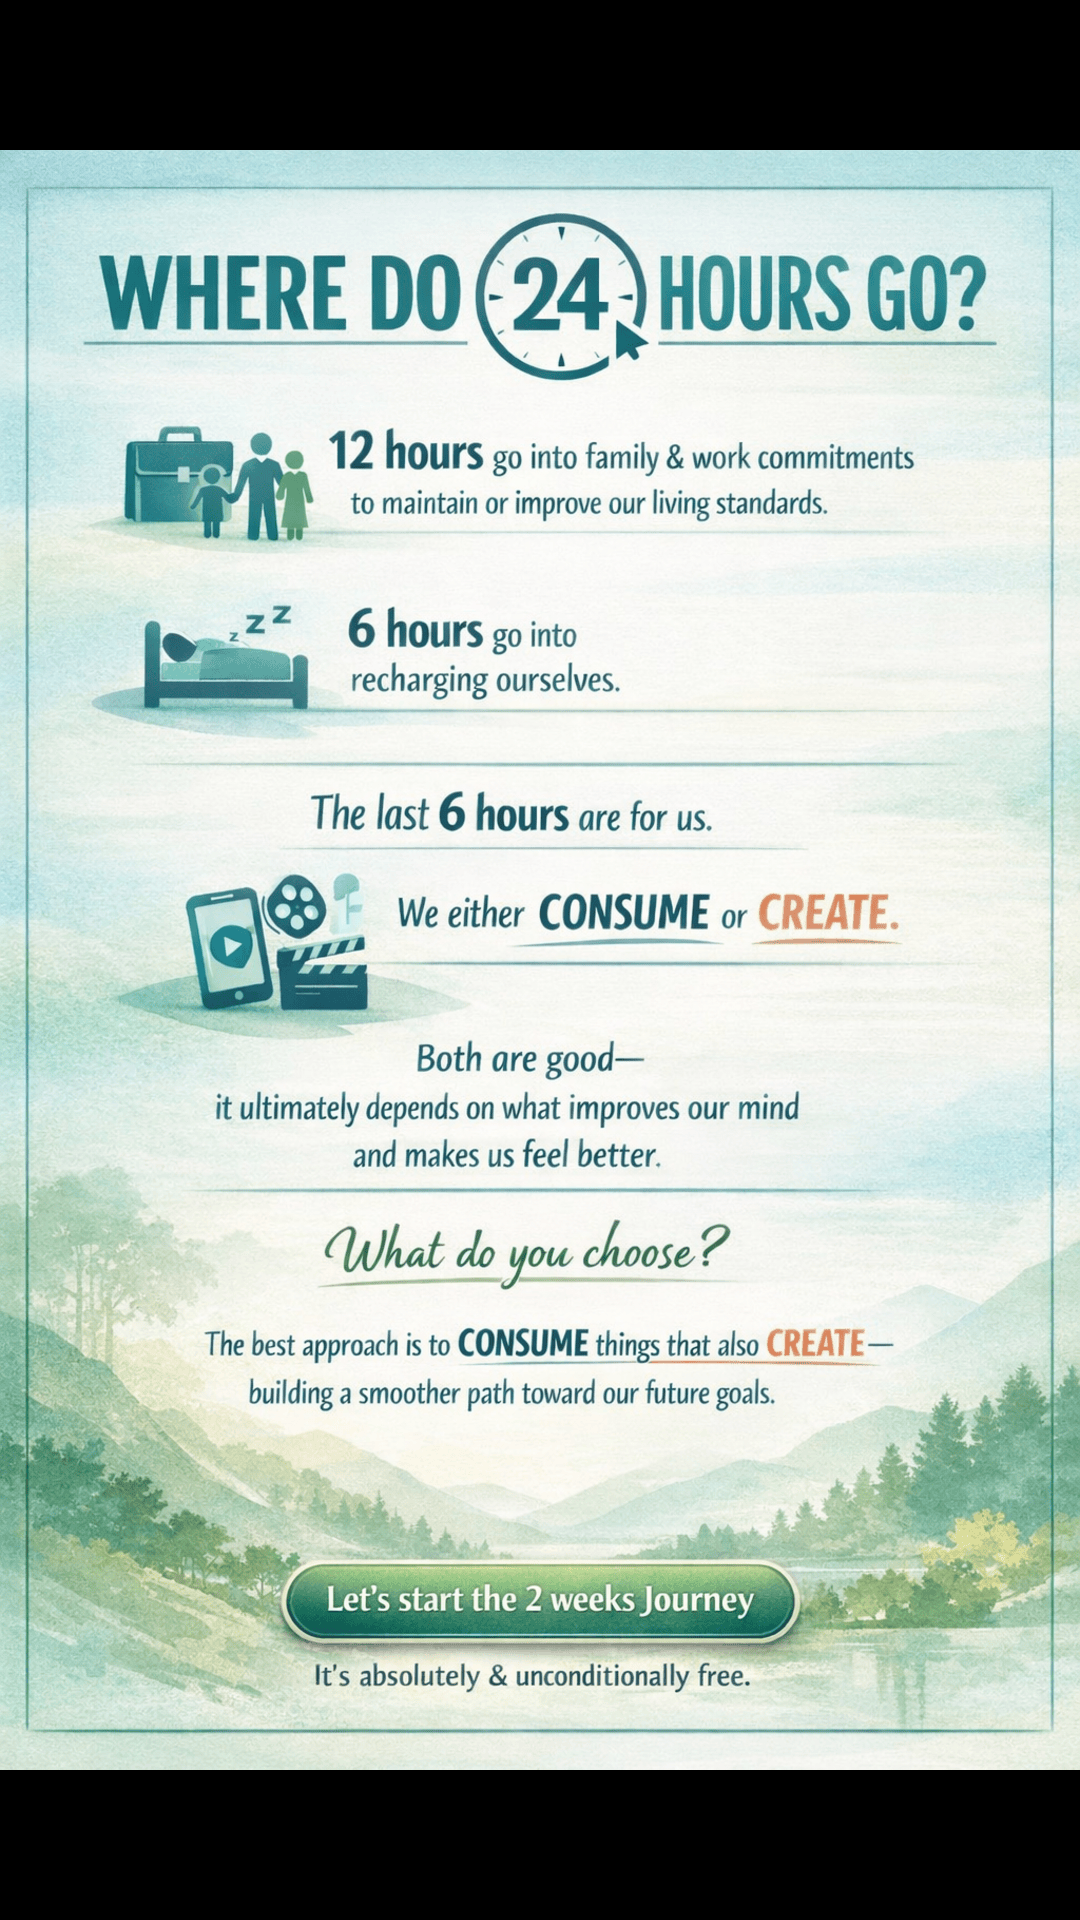
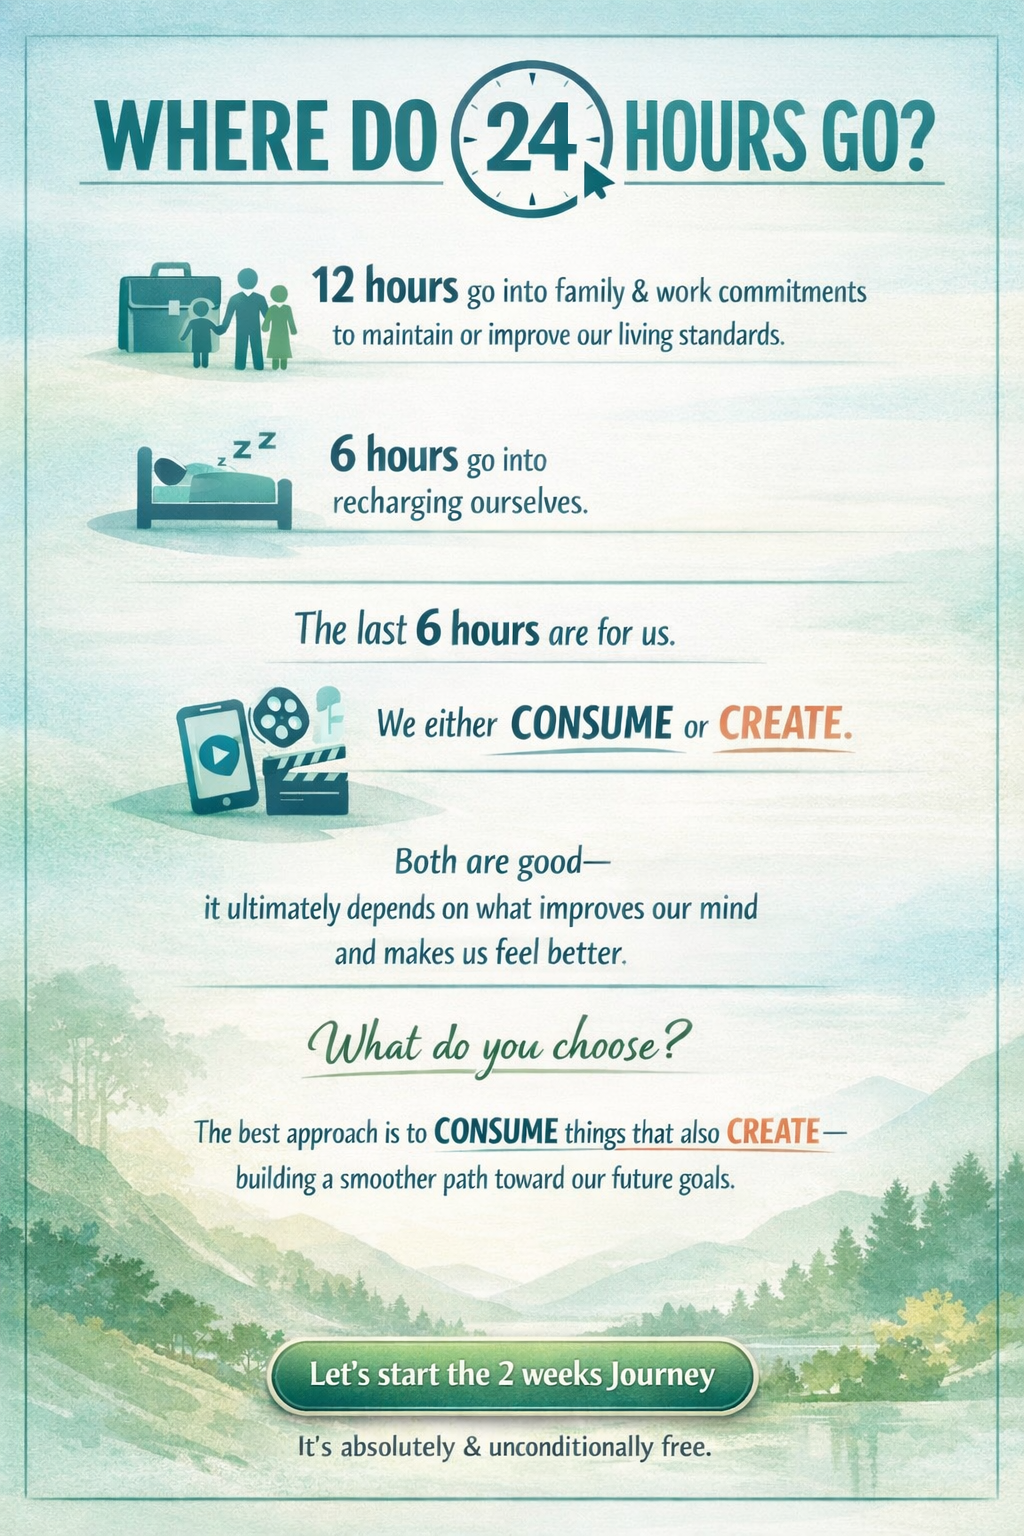
Further changes

diff --git a/templates/landing.html b/templates/landing.html
@@ -10,7 +10,7 @@
 
 		img{
 			max-width:100vw;
-			height:100vh;
+			height:auto;
 			object-fit:cover;
 			cursor:pointer;
 		}
